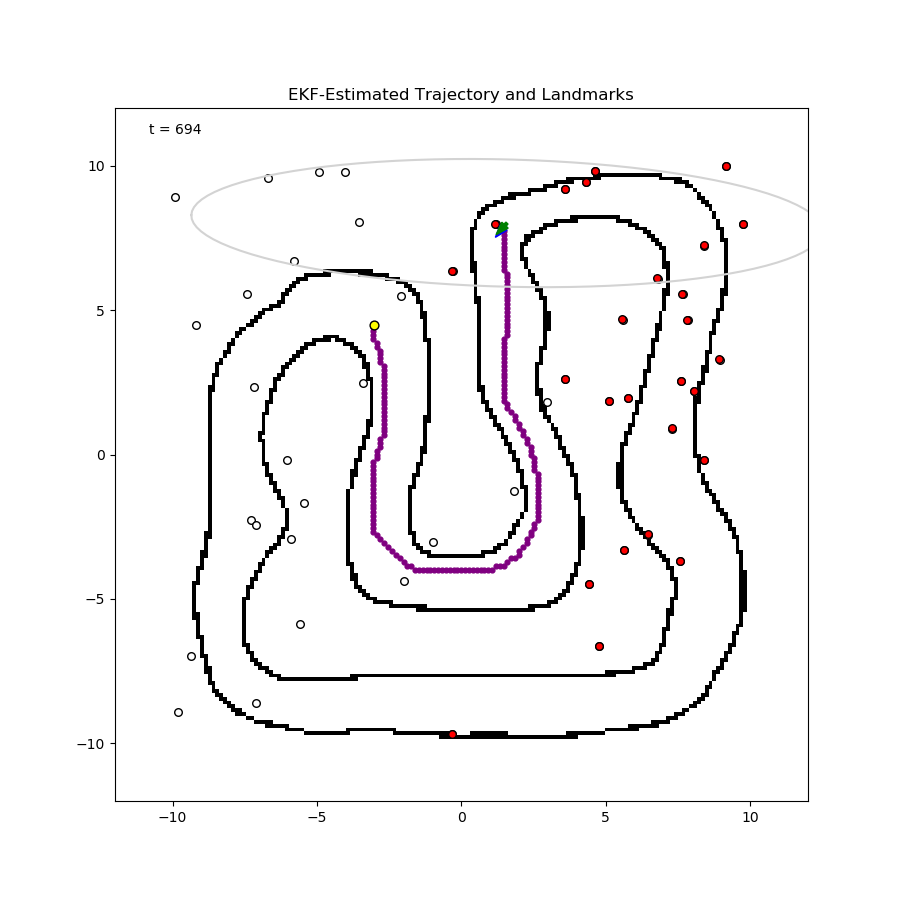
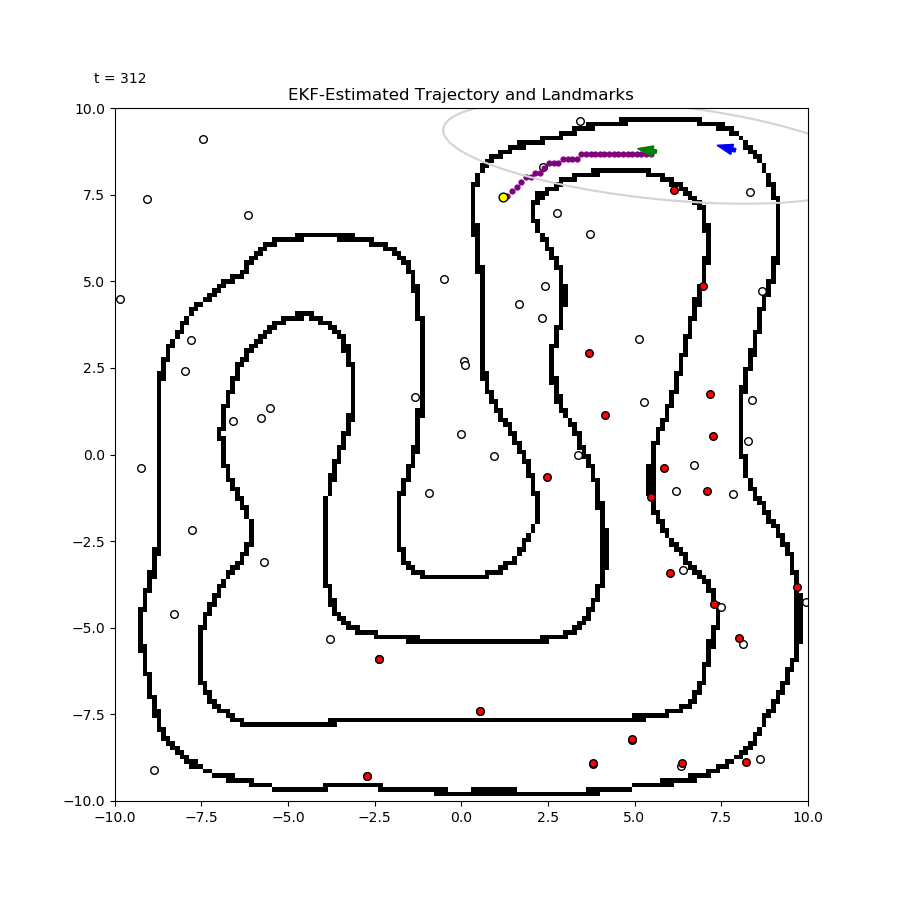
Increase map display scale robustness. Give up on adding buffer region to maps, and instead fit display so the user has nowhere invalid they can click. If free space is desired, it should be included in the map png itself.

diff --git a/ekf_ws/src/data_pkg/src/sim_node.py b/ekf_ws/src/data_pkg/src/sim_node.py
@@ -157,27 +157,16 @@ def generate_occupany_map(pkg_path):
         img = cv2.add(cv2.merge([a1,a1,a1,a1]), img) # add up values (with clipping)
         img = cv2.cvtColor(img, cv2.COLOR_RGBA2RGB) # strip alpha channels
     # cv2.imshow('initial map', img); cv2.waitKey(0); cv2.destroyAllWindows()
-    # lower the image resolution to have 1 pixel per 0.1x0.1 unit cell in the 20x20 landmark space.
-    # img = cv2.resize(img, (0,0), fx = 0.5, fy = 0.5)
+    # lower the image resolution to the desired grid size.
     img = cv2.resize(img, (Config.params["OCC_MAP_SIZE"], Config.params["OCC_MAP_SIZE"]))
 
     # turn this into a grayscale img and then to a binary map.
     occ_map = cv2.threshold(cv2.cvtColor(img, cv2.COLOR_BGR2GRAY), 127, 255, cv2.THRESH_BINARY)[1]
-    rows = occ_map.shape[0]
-    cols = occ_map.shape[1]
     # normalize to range [0,1].
     occ_map = np.divide(occ_map, 255)
-    # binarize to integer 0 or 1.
-    # occ_map = np.round(occ_map.reshape(1, rows * cols))
 
-    print("Map read in with shape ", occ_map.shape)
+    rospy.loginfo("Map read in with shape "+str(occ_map.shape))
     # cv2.imshow("Thresholded Map", occ_map); cv2.waitKey(0); cv2.destroyAllWindows()
-    # Flatten map and normalize cell values
-    # rows = occ_map.shape[0]
-    # cols = occ_map.shape[1]
-    # flat_map = np.divide(occ_map.reshape(1, rows * cols), 255)
-    # Pack into a ROS message to send for the planning node.
-    # map_msg = Int8MultiArray(data=flat_map[0])
     bridge = CvBridge()
     map_msg = bridge.cv2_to_imgmsg(occ_map, encoding="passthrough")
     occ_map_pub.publish(map_msg)

diff --git a/ekf_ws/src/data_pkg/src/import_params.py b/ekf_ws/src/data_pkg/src/import_params.py
@@ -40,11 +40,10 @@ class Config:
                         Config.params[key] = arg
         # Compute any other params that are needed.
         # occ map <-> lm coords transform params.
-        Config.params["SCALE"] = Config.params["MAP_BOUND"] / (Config.params["OCC_MAP_SIZE"] / 2) #* 1.5
+        Config.params["SCALE"] = Config.params["MAP_BOUND"] / (Config.params["OCC_MAP_SIZE"] / 2)
         Config.params["SHIFT"] = Config.params["OCC_MAP_SIZE"] / 2
         # size of region plotter will display.
-        Config.params["DISPLAY_REGION"] = Config.params["DISPLAY_REGION"] * Config.params["MAP_BOUND"]
-        Config.params["DISPLAY_REGION"] = [-Config.params["DISPLAY_REGION"], Config.params["DISPLAY_REGION"]]
+        Config.params["DISPLAY_REGION"] = [Config.params["MAP_BOUND"] * Config.params["DISPLAY_REGION_MULT"] * sign for sign in (-1, 1)]
 
 # automatically read in the params as soon as this is loaded.
 Config.read_params()
